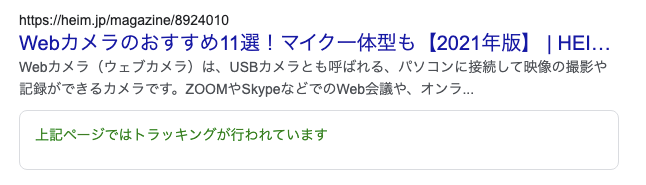
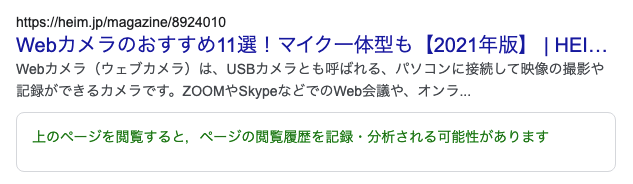
:rocket: FIx for experiment

diff --git a/src/Pages/Introduction/Introduction.tsx b/src/Pages/Introduction/Introduction.tsx
@@ -4,7 +4,6 @@ import { toast } from 'react-toastify';
 import { SizedText } from '../../Components/AdjustedComponents';
 import history from '../../shared/browserHistory';
 import { createTaskAnswer, makeSearchSesion, TaskInfo } from '../../shared/apis/apis';
-import { CONDITION_ICON, CONDITION_DIST } from '../../shared/consts';
 import { getConditionId, getUID, getUserId } from '../../shared/util';
 
 export const Introduction: React.FC<TaskInfo> = (props) => {
@@ -13,7 +12,6 @@ export const Introduction: React.FC<TaskInfo> = (props) => {
   const [reason, setReason] = useState<string>('');
 
   const condition = getConditionId();
-  const isUIDetailVisible = condition === CONDITION_ICON || condition === CONDITION_DIST;
   const progresNumString = props.id <= 6 ? '1' : '2';
   const userId = getUserId();
   const uid = getUID();
@@ -48,102 +46,7 @@ export const Introduction: React.FC<TaskInfo> = (props) => {
         <p>
           「検索結果リストを表示する」ボタンをクリックした後に表示される画面では、Google検索やYahoo検索のようなウェブ検索エンジンの結果ページを模したページが表示されます。
         </p>
-
-        {isUIDetailVisible ? (
-          <MDBCol>
-            <MDBRow>
-              {condition === 5 ? (
-                <p>
-                  　加えて、各検索結果には「いくつかのウェブサイトのアイコン」が表示されることがあります。
-                  ウェブサイトの中にはユーザの閲覧行動をウェブ広告会社に送信するトラッカー機能が埋め込まれている場合があります。検索結果にウェブサイトのアイコンが表示されている場合、
-                  その検索結果を閲覧するとアイコンが示すウェブサイトのトラッカー（広告会社）に
-                  検索結果を閲覧したことが知られてしまう可能性があることを意味します。
-                </p>
-              ) : (
-                <p>
-                  　加えて、各検索結果には「そのページに訪問したことがどんなカテゴリのウェブサイトにどの程度知られてしまうかの情報」が表示されることがあります。
-                  ウェブサイトの中にはユーザの閲覧行動をウェブ広告会社に送信するトラッカー機能が埋め込まれている場合があります。
-                  検索結果に「そのページに訪問したことがどんなカテゴリのウェブサイトにどの程度知られてしまうかの割合」が表示されている場合、その検索結果を閲覧すると割合が表示されたカテゴリのウェブサイトのトラッカー（広告会社）に検索結果を閲覧したことが知られてしまう可能性があることを意味します。
-                </p>
-              )}
-            </MDBRow>
-            <MDBRow className="d-flex justify-content-center">
-              <img src={`public/img/samples/${condition}.png`} className="img-fluid z-depth-1" alt="" width="560px" />
-            </MDBRow>
-            <MDBRow className="my-3">
-              {condition === 5 ? (
-                <p>
-                  例えば上記の例では、「Webカメラのおすすめ11選！」というウェブページに対して、
-                  ブリジストンや日本野球機構を含む10のアイコンが表示されています。
-                  このことは、「Webカメラのおすすめ11選！」のウェブサイトを閲覧すると、
-                  <ul style={{ margin: '20px', listStyleType: 'disc' }}>
-                    <li>
-                      ブリジストンや日本野球機構などにウェブ広告を配信している企業に
-                      「Webカメラのおすすめ11選！」を閲覧したことが知られてしまい、
-                    </li>
-                    <li>
-                      次回ブリジストンや日本野球機構などのウェブサイトを訪問した際に、
-                      「Webカメラのおすすめ11選！」を閲覧したという記録を使ってウェブ広告が表示される
-                    </li>
-                  </ul>
-                  可能性があることを意味します。
-                </p>
-              ) : (
-                <p>
-                  例えば上記の例では、「Webカメラのおすすめ11選！」というウェブページに対して、
-                  そのページに訪問したことが知られてしまう3つのカテゴリのウェブサイトの 数と割合が表示されています。
-                  上記の図からは、「Webカメラのおすすめ11選！」のウェブサイトを閲覧すると、
-                  <ul style={{ margin: '20px', listStyleType: 'disc' }}>
-                    <li>
-                      「乗り物」や「ホームとガーデニング」といったカテゴリのウェブサイトに
-                      広告を配信している企業に「Webカメラのおすすめ11選！」を閲覧したことが知られてしまい、
-                    </li>
-                    <li>
-                      次回「乗り物」や「ホームとガーデニング」のようなカテゴリの
-                      ウェブサイトを訪問した際に、「Webカメラのおすすめ11選！」を閲覧したという
-                      記録を使ってウェブ広告が表示される
-                    </li>
-                  </ul>
-                  可能性があることが分かります。
-                </p>
-              )}
-            </MDBRow>
-          </MDBCol>
-        ) : (
-          <MDBCol>
-            <MDBRow>
-              <p>
-                加えて、各検索結果には「上記ページではトラッキングが行われている」と 表示されることがあります。ｊ
-                ウェブサイトの中にはユーザの閲覧行動をウェブ広告会社に送信するトラッカー機能が
-                埋め込まれている場合があります。検索結果に「上記ページではトラッキングが行われている」と
-                表示されている場合、その検索結果を閲覧するとウェブ広告会社に検索結果を閲覧したことが
-                知られてしまう可能性があることを意味します。
-              </p>
-            </MDBRow>
-
-            <MDBRow className="d-flex justify-content-center">
-              <img src={`public/img/samples/${condition}.png`} className="img-fluid z-depth-1" alt="" width="560px" />
-            </MDBRow>
-            <MDBRow className="my-3">
-              <p>
-                例えば上記の例では、「Webカメラのおすすめ11選！」というウェブページに対して、
-                「上記ページではトラッキングが行われています」と表示されています。
-                このことは、「Webカメラのおすすめ11選！」のウェブサイトを閲覧すると、
-                <ul style={{ margin: '20px', listStyleType: 'disc' }}>
-                  <li>
-                    そのサイトにウェブ広告を配信している企業に「Webカメラのおすすめ11選！」を閲覧したことが知られてしまい、
-                  </li>
-                  <li>
-                    ウェブ広告会社が広告を提供している他のウェブサイトを訪問した際に、
-                    「Webカメラのおすすめ11選！」を閲覧したという記録を使ってウェブ広告が表示される
-                  </li>
-                </ul>
-                可能性があることを意味します。
-              </p>
-            </MDBRow>
-          </MDBCol>
-        )}
-
+        {taskDetail(condition)}
         <div className="d-flex justify-content-center m-5" style={{ margin: 'auto' }}>
           <a target="_blank" rel="noopener noreferrer" style={{ color: 'white' }} href={`/search/${props.id}`}>
             <MDBBtn
@@ -239,4 +142,93 @@ export const Introduction: React.FC<TaskInfo> = (props) => {
       </MDBContainer>
     </>
   );
+};
+
+const taskDetail = (condition: number) => {
+  switch (condition) {
+    case 5:
+      return (
+        <MDBCol>
+          <MDBRow>
+            <p>
+              加えて、各検索結果には下図のように、
+              「上のページを閲覧すると、以下のウェブサイトでも上記ページの閲覧履歴を記録・分析される可能性があります」
+              というメッセージと共に「いくつかのウェブサイトのアイコン」が表示されることがあります。
+              検索結果にウェブサイトのアイコンが表示されている場合、その検索結果からリンクされたページを閲覧すると、
+              アイコンが示すウェブサイトでも検索結果のページを閲覧したことが記録・分析されてしまう
+              可能性があることを意味します。
+            </p>
+          </MDBRow>
+          <MDBRow className="d-flex justify-content-center">
+            <img src={`public/img/samples/${condition}.png`} className="img-fluid z-depth-1" alt="" width="560px" />
+          </MDBRow>
+          <MDBRow className="my-3">
+            <p>
+              例えば上記の例では、「Webカメラのおすすめ11選！」というウェブページに対して、
+              ブリジストンや日本野球機構を含む10のアイコンが表示されています。
+              このことは、「Webカメラのおすすめ11選！」のウェブページを閲覧すると、
+              「Webカメラのおすすめ11選！」のページだけでなく、
+              「ブリジストン」や「日本野球機構」といったウェブサイトなどにウェブ広告を配信している企業などにも
+              「Webカメラのおすすめ11選！」を閲覧したことが記録・分析されてしまう可能性があることが分かります。
+            </p>
+          </MDBRow>
+        </MDBCol>
+      );
+    case 6:
+      return (
+        <MDBCol>
+          <MDBRow>
+            <p>
+              加えて、各検索結果には下図のように、
+              「上のページを閲覧すると、ページの閲覧履歴を記録・分析される可能性があります」と
+              表示されることがあります。
+              検索結果にこのメッセージが表示されている場合、その検索結果からリンクされたページを閲覧すると、
+              第三者にそのページの閲覧履歴が記録・分析されてしまう可能性があることを意味します。
+            </p>
+          </MDBRow>
+
+          <MDBRow className="d-flex justify-content-center">
+            <img src={`public/img/samples/${condition}.png`} className="img-fluid z-depth-1" alt="" width="560px" />
+          </MDBRow>
+          <MDBRow className="my-3">
+            <p>
+              例えば上記の例では、「Webカメラのおすすめ11選！」というウェブページに対して、
+              「上のページを閲覧すると、ページの閲覧履歴を記録・分析される可能性があります」と表示されています。
+              このことは、「Webカメラのおすすめ11選！」のウェブページを閲覧すると、
+              そのページにウェブ広告を配信している企業などに「Webカメラのおすすめ11選！」を
+              閲覧したことが記録・分析されてしまう可能性があることが分かります。
+            </p>
+          </MDBRow>
+        </MDBCol>
+      );
+    case 7:
+      return (
+        <MDBCol>
+          <MDBRow>
+            <p>
+              加えて、各検索結果には下図のように、 「検索結果からリンクされたページを閲覧したことが、
+              どんなカテゴリのウェブサイトにどの程度知られてしまうかの割合情報」 が表示されることがあります。
+              検索結果に割合情報が表示されている場合、その検索結果からリンクされたページを閲覧すると、
+              割合が表示されたカテゴリのウェブサイトでも
+              検索結果のページを閲覧したことが記録・分析されてしまう可能性があることを意味します。
+            </p>
+          </MDBRow>
+          <MDBRow className="d-flex justify-content-center">
+            <img src={`public/img/samples/${condition}.png`} className="img-fluid z-depth-1" alt="" width="560px" />
+          </MDBRow>
+          <MDBRow className="my-3">
+            <p>
+              例えば上記の例では、「Webカメラのおすすめ11選！」というウェブページに対して、
+              そのページを閲覧したことが知られてしまう3つのカテゴリのウェブサイトの数と割合が表示されています。
+              上図からは、「Webカメラのおすすめ11選！」のウェブページを閲覧すると、
+              「Webカメラのおすすめ11選！」のページだけでなく、
+              「乗り物」や「ホームとガーデニング」のようなカテゴリのウェブサイトにウェブ広告を配信している企業などにも
+              「Webカメラのおすすめ11選！」を閲覧したことが記録・分析されてしまう可能性があることを意味します。
+            </p>
+          </MDBRow>
+        </MDBCol>
+      );
+    default:
+      return;
+  }
 };

diff --git a/src/Pages/Search/Internal/SearchResult.tsx b/src/Pages/Search/Internal/SearchResult.tsx
@@ -23,15 +23,20 @@ export const SearchResultUnit: React.FC<SearchResultProps> = (props) => {
   const isExpGroup = isExperimentalGroup();
   const condition = getConditionId();
 
-  const suggestionTitle = isExpGroup
-    ? `上記ページに訪問したことがどんな${props.page.distribution ? 'カテゴリの' : ''}ウェブサイトに知られてしまうか${
-        props.page.total ? '（' + props.page.total + '件）' : ''
-      }`
+  const suggestionTitleFirst = isExpGroup
+    ? `上のページを閲覧すると，以下の${condition == 7 ? 'カテゴリの' : ''}ウェブサイトでも`
     : '';
+
+  const suggestionTitleLater = `上記ページの閲覧履歴を記録・分析される可能性があります${
+    condition == 7 ? '（' + props.page.total + '件）' : ''
+  }`;
+
   let suggestionArea: ReactElement | undefined = undefined;
   if (!isExpGroup) {
     suggestionArea =
-      props.rank % 2 !== 0 ? <p style={{ color: 'green' }}>上記ページではトラッキングが行われています</p> : undefined;
+      props.rank % 2 !== 0 ? (
+        <p style={{ color: 'green' }}>上のページを閲覧すると，ページの閲覧履歴を記録・分析される可能性があります</p>
+      ) : undefined;
   } else if (props.page.leaks && condition === 5) {
     suggestionArea =
       props.rank % 2 !== 0 && props.page.leaks.length > 0 ? (
@@ -66,7 +71,8 @@ export const SearchResultUnit: React.FC<SearchResultProps> = (props) => {
       suggestion={
         suggestionArea
           ? {
-              title: suggestionTitle,
+              title: suggestionTitleFirst,
+              secondaryTitle: suggestionTitleLater,
               child: suggestionArea,
             }
           : undefined
@@ -132,12 +138,26 @@ type SearchResultSingleProps = {
   snippet: string;
   suggestion?: {
     title: string;
+    secondaryTitle?: string;
     child?: JSX.Element;
     onClick?: () => void;
   };
 };
 
 export const SearchResultSingle: React.FC<SearchResultSingleProps> = (props) => {
+  const buildTitle = () => {
+    if (props.suggestion == null) return <></>;
+    return props.suggestion.secondaryTitle ? (
+      <>
+        {props.suggestion.title}
+        <br />
+        {props.suggestion.secondaryTitle}
+      </>
+    ) : (
+      <>{props.suggestion.title}</>
+    );
+  };
+
   return (
     <StyledRootContainer className="g">
       <StyledPageInfoArea>
@@ -155,7 +175,7 @@ export const SearchResultSingle: React.FC<SearchResultSingleProps> = (props) => 
       <StyledPageSnippetArea>{props.snippet.slice(0, 80) + '...'}</StyledPageSnippetArea>
       {props.suggestion && (
         <StyledSuggestionArea>
-          <h4 style={styles.suggestionTitle}>{props.suggestion.title}</h4>
+          <h4 style={styles.suggestionTitle}>{buildTitle()}</h4>
           <div style={styles.suggestionComponent} onClick={props.suggestion.onClick}>
             {props.suggestion.child}
           </div>

diff --git a/src/Pages/PreTask/PreTask.tsx b/src/Pages/PreTask/PreTask.tsx
@@ -13,7 +13,7 @@ export const PreTask: React.FC = () => {
   return (
     <MDBContainer className="my-5">
       <h1>事前アンケート</h1>
-      <p>タスクを行う前に事前のアンケートにお答えください。質問は全部で17問あり、想定所要時間は約5分です。</p>
+      <p>タスクを行う前に事前のアンケートにお答えください。質問は全部で2問あり、想定所要時間は約1分です。</p>
       <h2 className="mt-5">注意事項</h2>
       <p>
         アンケートページは別タブで開かれますが、アンケートページが開いてもこのページは

diff --git a/src/Pages/PostTask/PostTask.tsx b/src/Pages/PostTask/PostTask.tsx
@@ -11,7 +11,7 @@ export const PostTask: React.FC = () => {
   return (
     <MDBContainer className="my-5">
       <h1>事後アンケート</h1>
-      <p>事後アンケートにお答えください。質問は全部で17問あり、想定所要時間は約5分です。</p>
+      <p>事後アンケートにお答えください。質問は全部で15問あり、想定所要時間は約5分です。</p>
       <h2 className="mt-5">注意事項</h2>
       <p>
         アンケートページは別タブで開かれますが、アンケートページが開いてもこのページは

diff --git a/src/shared/config.ts b/src/shared/config.ts
@@ -1,6 +1,6 @@
 export const API_ENDPOINT = process.env.BACKEND_ENDPOINT || 'http://localhost:8080';
 
-export const CROWDSOURCING_SITE = 'ランサーズ';
+export const CROWDSOURCING_SITE = 'クラウドワークス';
 
 export const preTaskUrl: EnqueteURL = {
   shopping: {
